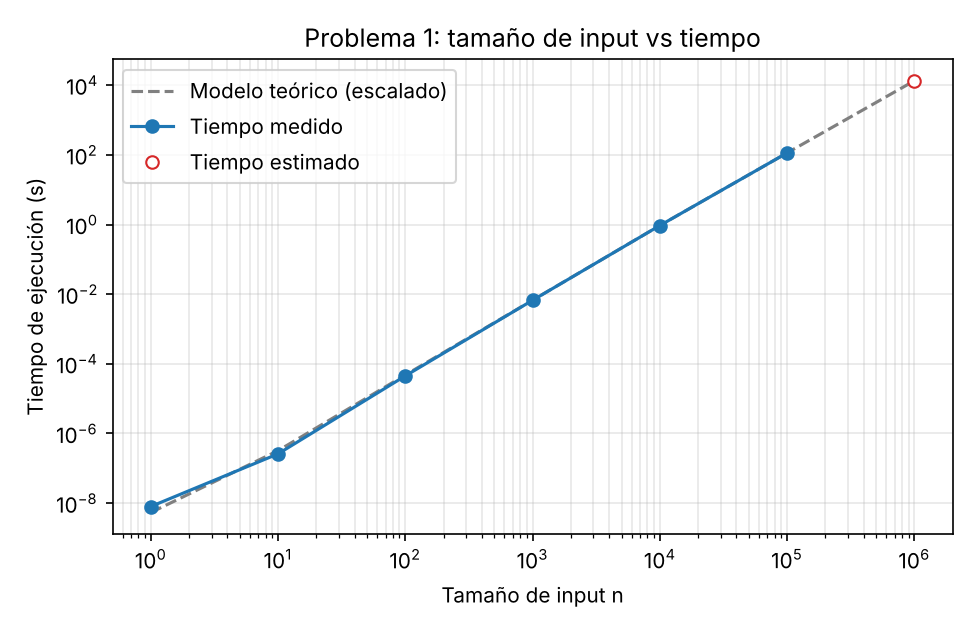
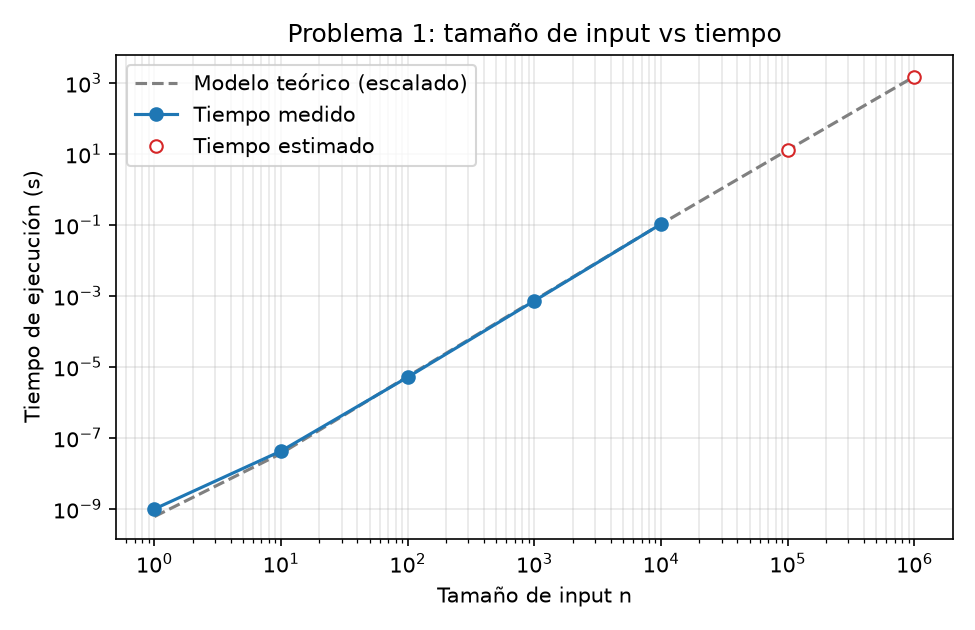
arreglos para el video problema 1 y 3

diff --git a/src/medicion.h b/src/medicion.h
@@ -32,40 +32,28 @@ static const int VALORES_N[CANTIDAD_VALORES] = {
 static double medir_tiempo(void (*funcion)(int), int n)
 {
     clock_t inicio, fin;
-    double segundos, por_llamada;
-    int repeticiones, i;
+    double segundos;
+    long repeticiones = 1;
+    long i;
 
-    /* Primera medicion: una sola ejecucion. */
-    inicio = clock();
-    funcion(n);
-    fin = clock();
-    segundos = (double)(fin - inicio) / CLOCKS_PER_SEC;
+    /* Se duplican las repeticiones hasta que el tiempo total supere
+       TIEMPO_MINIMO. Asi no se depende de estimar el tiempo de una
+       sola llamada, que con la resolucion de clock() puede dar 0. */
+    while (1) {
+        inicio = clock();
+        for (i = 0; i < repeticiones; i++) {
+            funcion(n);
+        }
+        fin = clock();
 
-    if (segundos >= TIEMPO_MINIMO) {
-        return segundos;
+        segundos = (double)(fin - inicio) / CLOCKS_PER_SEC;
+        if (segundos >= TIEMPO_MINIMO || repeticiones >= MAX_REPETICIONES) {
+            break;
+        }
+        repeticiones *= 2;
     }
 
-    /* La funcion fue muy rapida: se repite y se saca el promedio. */
-    por_llamada = segundos;
-    if (por_llamada < 1e-7) {
-        por_llamada = 1e-7;
-    }
-
-    repeticiones = (int)(TIEMPO_MINIMO / por_llamada);
-    if (repeticiones > MAX_REPETICIONES) {
-        repeticiones = MAX_REPETICIONES;
-    }
-    if (repeticiones < 1) {
-        repeticiones = 1;
-    }
-
-    inicio = clock();
-    for (i = 0; i < repeticiones; i++) {
-        funcion(n);
-    }
-    fin = clock();
-
-    return ((double)(fin - inicio) / CLOCKS_PER_SEC) / repeticiones;
+    return segundos / repeticiones;
 }
 
 /*

diff --git a/src/problema3.c b/src/problema3.c
@@ -15,8 +15,9 @@
 #include <stdlib.h>
 #include "medicion.h"
 
-/* Valor maximo de n que se mide si no se indica otro (ver README). */
-#define N_MAXIMO_POR_DEFECTO 100000
+/* Valor maximo de n que se mide si no se indica otro. Con 100000 la
+   ejecucion tarda demasiado, asi que ese valor se estima en analisis.py. */
+#define N_MAXIMO_POR_DEFECTO 10000
 
 /* Funcion del enunciado. */
 void function(int n)
@@ -59,7 +60,7 @@ int main(int argc, char *argv[])
         n = VALORES_N[p];
 
         if (n > n_maximo) {
-            fprintf(stderr, "%10d  omitido (ver README para medirlo)\n", n);
+            fprintf(stderr, "%10d  omitido por tiempo\n", n);
             continue;
         }
 
@@ -67,6 +68,8 @@ int main(int argc, char *argv[])
 
         fprintf(stderr, "%10d %16.9f\n", n, segundos);
         fprintf(archivo, "%d,%.9f\n", n, segundos);
+        /* Se guarda cada fila al momento, por si el programa se interrumpe. */
+        fflush(archivo);
     }
 
     fclose(archivo);

diff --git a/README.md b/README.md
@@ -73,22 +73,35 @@ contra tiempo para cada problema.
 
 ## Tiempos de ejecución y valores omitidos
 
-Algunos valores de n tardan mucho tiempo en medirse. Por eso los programas
-de los problemas 1 y 3 miden por defecto hasta n = 100000. Para medir
-también n = 1000000 se indica como argumento:
+Algunos valores de n tardan mucho tiempo en medirse. Por eso cada programa
+tiene un valor máximo de n por defecto:
+
+- El problema 1 mide por defecto hasta n = 100000. Si n = 1000000 no se
+  mide, aparece como `omitido (ver README para medirlo)`.
+- El problema 3 mide por defecto hasta n = 10000. Si n = 100000 y
+  n = 1000000 no se miden, aparecen como `omitido por tiempo`.
+- El problema 2 mide todos los valores.
+
+Para medir también los valores omitidos se indica como argumento el n
+máximo, por ejemplo:
 
 ```
 ./problema1 1000000
-./problema3 1000000
+./problema3 100000
 ```
 
-Tiempos aproximados en la computadora donde se hicieron las pruebas:
+Tiempos en la computadora donde se hicieron las pruebas (compilados con
+`-O2`; las mediciones marcadas como estimadas salen de `analisis.py` a partir
+del mayor n medido):
 
-| Programa   | n = 100000      | n = 1000000            |
-|------------|-----------------|------------------------|
-| problema1  | unos 2 minutos  | unas 3.7 horas         |
-| problema2  | menos de 1 s    | menos de 1 s           |
-| problema3  | unos 10 segundos| unos 16 minutos        |
+| Programa   | n = 10000        | n = 100000                    | n = 1000000              |
+|------------|------------------|-------------------------------|--------------------------|
+| problema1  | 0.107 s          | unos 13 s (estimado)          | unos 25 min (estimado)   |
+| problema2  | 0.004 s          | 0.040 s                       | 0.376 s                  |
+| problema3  | 3.16 s           | unos 5 min 16 s (medido) (*)  | unas 8.6 horas (estimado)|
+
+(*) Medido en una corrida anterior del mismo programa; con el valor por
+defecto actual de `problema3` no se mide.
 
 Si un valor de n no se mide, `analisis.py` lo estima multiplicando el tiempo
 del mayor n medido por la proporción de operaciones que predice el análisis
